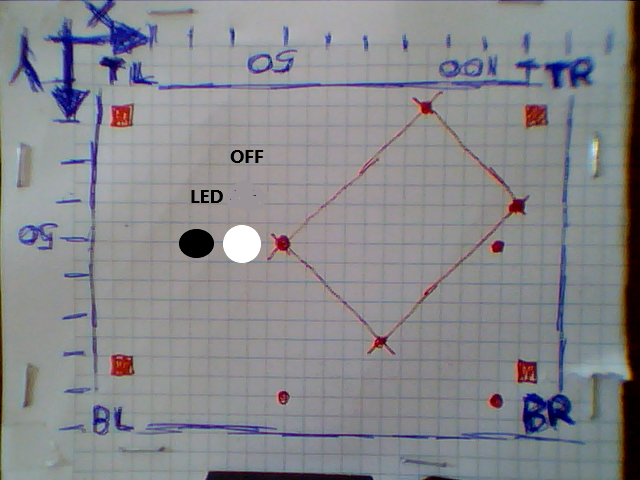
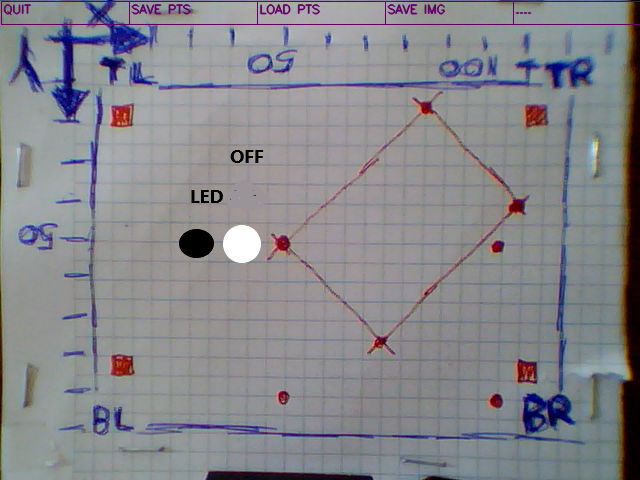
Completed Menu,

diff --git a/PY_Samples/Cam/Get_Cam_Window_V3.py b/PY_Samples/Cam/Get_Cam_Window_V3.py
@@ -35,28 +35,19 @@ def GetImageDimensions(image):
     MID_height = int(height/2)
 
     return (width, height)
-
-
+#===============================================================================
 def ExportMountingFrame(sPathFile,DataPoints):
     # field names
     fields = ['POSITION', 'X', 'Y']
-
+##    print(DataPoints)
     # data rows of csv file
-##    DataPoints = [
-##             ['TL', 'COE', '2', '9.0'],
-##             ['BL', 'COE', '2', '9.1'],
-##             ['BR', 'IT', '2', '9.3'],
-##             ['TR', 'SE', '1', '9.5'],
-##            ]
-
     with open(sPathFile, 'w',newline='') as f:
 
         # using csv.writer method from CSV package
         write = csv.writer(f)
-
 ##        write.writerow(fields) # header
         write.writerows(DataPoints )
-
+#===============================================================================
 def ImportMountingFrame(sPathFile):
      with open(sPathFile, mode ='r') as csvfile:
 
@@ -91,7 +82,7 @@ def mousePoints(event,x,y,flags,params):
     dummy=199
 
     if event == cv2.EVENT_LBUTTONDOWN:
-        if (x < dim[0]) & (y < dim[1]) :
+        if (x < dim[0]) & (25 <y < dim[1]) :  # menue click ignored !!
             print('Co-ordinate:',x,y)
             X1[MousePointCounter] = x
             Y1[MousePointCounter] = y
@@ -104,7 +95,7 @@ def mousePoints(event,x,y,flags,params):
 
     if event == cv2.EVENT_RBUTTONDOWN:
 
-        if  (x < dim[0]) & (y < dim[1]):
+        if  (x < dim[0]) & ( y < dim[1]):
             print('Circle:',x,y)
             X2[1] = x
             Y2[1] = y
@@ -143,7 +134,7 @@ dim = (width, height)
 
 aImageDim=GetImageDimensions(grey_img)
 #------------------------------------------------------------------------------
-
+print('====PROGRAM START==========================================')
 
 P1X= int(-width/3 + width/2)
 P1Y= int(-height/3 + height/2)
@@ -169,9 +160,8 @@ MountingFrame=[(P1X,P1Y),(P2X,P2Y),(P3X,P3Y),(P4X,P4Y),(P5X,P5Y)]
 
 MP_WORLD= [('TL',P1X,P1Y),('BL',P2X,P2Y),('BR',P3X,P3Y),('TR',P4X,P4Y)] #mounting frame world
 
-
+print('====PROGRAM MAIN LOOP==========================================')
 while(True):
-
 #------------------------------------------------------------------------------
 # Get Image with  ?filter?
     if image_source!=2 :
@@ -179,21 +169,13 @@ while(True):
         ####    frame = cv2.resize(frame, (400, 400))
         #grey_img = cv2.cvtColor(frame, cv2.COLOR_BGR2GRAY)
         grey_img = cv2.cvtColor(frame, cv2.IMREAD_COLOR)
-
     else:
         grey_img = cv2.imread('grey_img_1.png')
 #------------------------------------------------------------------------------
     # resize image
     # grey_img = cv2.resize(grey_img, dim, interpolation = cv2.INTER_AREA)
-
-
     grey_img_2 = grey_img.copy()
-
     grey_img=cam_menu.cam_menu.draw(cv2,grey_img)
-
-##    cam_menu.cam_menu.draw
-##    print('Resized Dimensions : ',resized.shape)
-
 ##=============================================================================
 
     # Display the resulting frame
@@ -245,7 +227,19 @@ while(True):
                  ['TR',X1[4],Y1[4]]
                 ]
 ##=============================================================================
+    sCMD=cam_menu.cam_menu.command(cv2,grey_img,Xmenu,Ymenu)
+
+    if sCMD=="QUIT":
+        break
+    if sCMD != "NULL":
+        print(Xmenu , Ymenu , 'CMD=' + sCMD)
+        Xmenu=1000
+        Ymenu=1000
+
     if sCMD=='LOAD PTS':
+        print('====IMPORT CSV==============================================')
+        print('IMPORT CSV - datapointsWORLD.csv')
+
         # Draw Lines of  imported Mounting Frame
         sPathFile='datapointsWORLD.csv'
         MP_WORLD=ImportMountingFrame(sPathFile)
@@ -259,6 +253,22 @@ while(True):
                 PTS_pre=PTS
             if i== 4:
                 PTS_pre=PTS
+
+    if sCMD=='SAVE PTS':
+        print('====EXPORT CSV==============================================')
+        print('EXPORT CSV - datapointsCAM.csv')
+        sPathFile='datapointsCAM.csv'
+        ExportMountingFrame(sPathFile,DataPoints)
+        print(DataPoints)
+
+    if sCMD=='SAVE IMG':
+        print('====EXPORT CSV==============================================')
+        print('EXPORT CSV - grey_img_1.png grey_img_2.png')
+        cv2.imwrite('grey_img_1.png',grey_img)
+        cv2.imwrite('grey_img_2.png',grey_img_2)
+        print('EXPORT png')
+
+    sCMD=="NULL" # stop command
 ##=============================================================================
 ##    cv2.line(img= grey_img_2, pt1=(X1[4], Y1[4]), pt2=(X1[1], Y1[1]), color=(255, 0, 0), thickness=5, lineType=8, shift=0)
 ##    cv2.line(img= grey_img_2, pt1=(X1[1], Y1[1]), pt2=(X1[2], Y1[2]), color=(255, 0, 0), thickness=5, lineType=8, shift=0)
@@ -364,50 +374,27 @@ while(True):
 # KEYSTRIKE COMMANDS
     # EXPORT CSV
     if cv2.waitKey(1) & 0xFF == ord('e'):
-        sPathFile='datapointsCAM.csv'
-        ExportMountingFrame(sPathFile,DataPoints)
         print('====EXPORT CSV==============================================')
-        print('EXPORT CSV')
-        print('')
-        sCMD= 'EXPORTED POINTS'
 
     # IMPORT CSV
     if cv2.waitKey(1) & 0xFF == ord('i'):
-        sPathFile='datapointsWORLD.csv'
-        MP_WORLD=ImportMountingFrame(sPathFile)
         print('====IMPORT CSV==============================================')
-        print('IMPORT CSV')
-        print(MP_WORLD)
-        print('')
-        sCMD= 'IMPORTED POINTS'
-
 
     # SAVE IMAGE
     if cv2.waitKey(1) & 0xFF == ord('s'):
         cv2.imwrite('grey_img_1.png',grey_img)
         cv2.imwrite('grey_img_2.png',grey_img_2)
-
         print('EXPORT png')
         sCMD= 'EXPORTED IMAGES L & R'
-
-
     # QUIT
     if cv2.waitKey(1) & 0xFF == ord('q'):
         break
 ##=============================================================================
 # IMAGE SHOW
     img_3 = np.concatenate((grey_img, grey_img_2), axis=1)
-
     cv2.imshow('frame',img_3)
-
     cv2.setMouseCallback('frame', mousePoints)
 
-    sCMD=cam_menu.cam_menu.command(cv2,grey_img,Xmenu,Ymenu)
-    print(Xmenu , Ymenu , 'CMD=' + sCMD)
-
-
-    if sCMD=="QUIT":
-        break
 ##=============================================================================
 # When everything done, release the capture
 cap.release()

diff --git a/PY_Samples/Cam/cam_menu.py b/PY_Samples/Cam/cam_menu.py
@@ -16,66 +16,56 @@ import csv
 
 class cam_menu:
 
-
+    menu=["QUIT","SAVE PTS","LOAD PTS","SAVE IMG","...."]
+#----------------------------------------------------------------------------
     def draw(oCV2,image):
 
         # Get Image dimensions
 
-        width = int(image.shape[1] / 5)
-        height = int(image.shape[0]  / 20)
-        step = int(image.shape[1] / 5)
+        width_button = int(image.shape[1] / 5)
+        height_button = int(image.shape[0] / 20)
+        spacing_button = int(image.shape[1] / 5)
 
-        TextX = int((width)/ 80) + 1
-        TextY = int(height ) + 1
-##
-##        start_point = (1, 1)
-##        end_point = (width, width)
         color = (100, 0, 100) # Blue color in BGR
         thickness = 2 # Line thickness of 2 px
         # Using cv2.rectangle() method
 
-        menu=["QUIT","SAVE PTS","LOAD PTS","SAVE IMG","...."]
+##        menu=["QUIT","SAVE PTS","LOAD PTS","SAVE IMG","...."]
         font = cv2.FONT_HERSHEY_SIMPLEX # font
-        org = (TextX, TextY) # org
         fontScale = 0.4 # fontScale
         thickness = 1 # Line thickness of 2 px
 
         for i in[0,1,2,3,4]:
-                start_point = (1+step*i, 1)
-                end_point = (1+step*i+ width, height)
-                TextX = int(1+step*i +(width)/ 80) + 1
-                TextY = int(height ) + 1
+                start_point = (1+spacing_button*i, 1)
+                end_point = (1+spacing_button*i+ width_button, height_button)
+                TextX = int(1+spacing_button*i +(width_button)/ 80) + 1
+                TextY = int(height_button/2 ) + 1
                 org=(TextX,TextY)
                 image = oCV2.rectangle(image, start_point, end_point, color, thickness)
-                image = oCV2.putText(image, menu[i], org, font, fontScale, color, thickness, oCV2.LINE_AA)
-
-
-        font = cv2.FONT_HERSHEY_SIMPLEX # font
-        org = (TextX, TextY) # org
-        fontScale = 0.4 # fontScale
-        thickness = 1 # Line thickness of 2 px
-        # Using cv2.putText() method
-        image = oCV2.putText(image, "QUIT", org, font, fontScale, color, thickness, oCV2.LINE_AA)
-
+                image = oCV2.putText(image, cam_menu.menu[i], org, font, fontScale, color, thickness, oCV2.LINE_AA)
 
         return image
-
+#----------------------------------------------------------------------------
     def command(oCV2,image,X,Y):
 
         # Get Image dimensions
 
-        width = int(image.shape[1] / 5)
-        height = int(image.shape[0]  / 20)
-        step = int(image.shape[1] / 5)
+        width_button = int(image.shape[1] / 5)
+        height_button = int(image.shape[0] / 20)
+        spacing_button = int(image.shape[1] / 5)
 
+##        menu=["QUIT","SAVE PTS","LOAD PTS","SAVE IMG","...."]
         cmd="NULL"
 
-        if (Y< width) and (X < width) :
+        for i in[0,1,2,3,4]:
+            start_point = (1+spacing_button*i, 1)
+            end_point = (1+spacing_button*i+ width_button, height_button)
 
-            cmd="QUIT"
+            if (Y< height_button) and (start_point[0] < X < end_point[0]) :
+                cmd=cam_menu.menu[i]
 
         return cmd
-
+#----------------------------------------------------------------------------
 
 
 if __name__ == '__main__':
